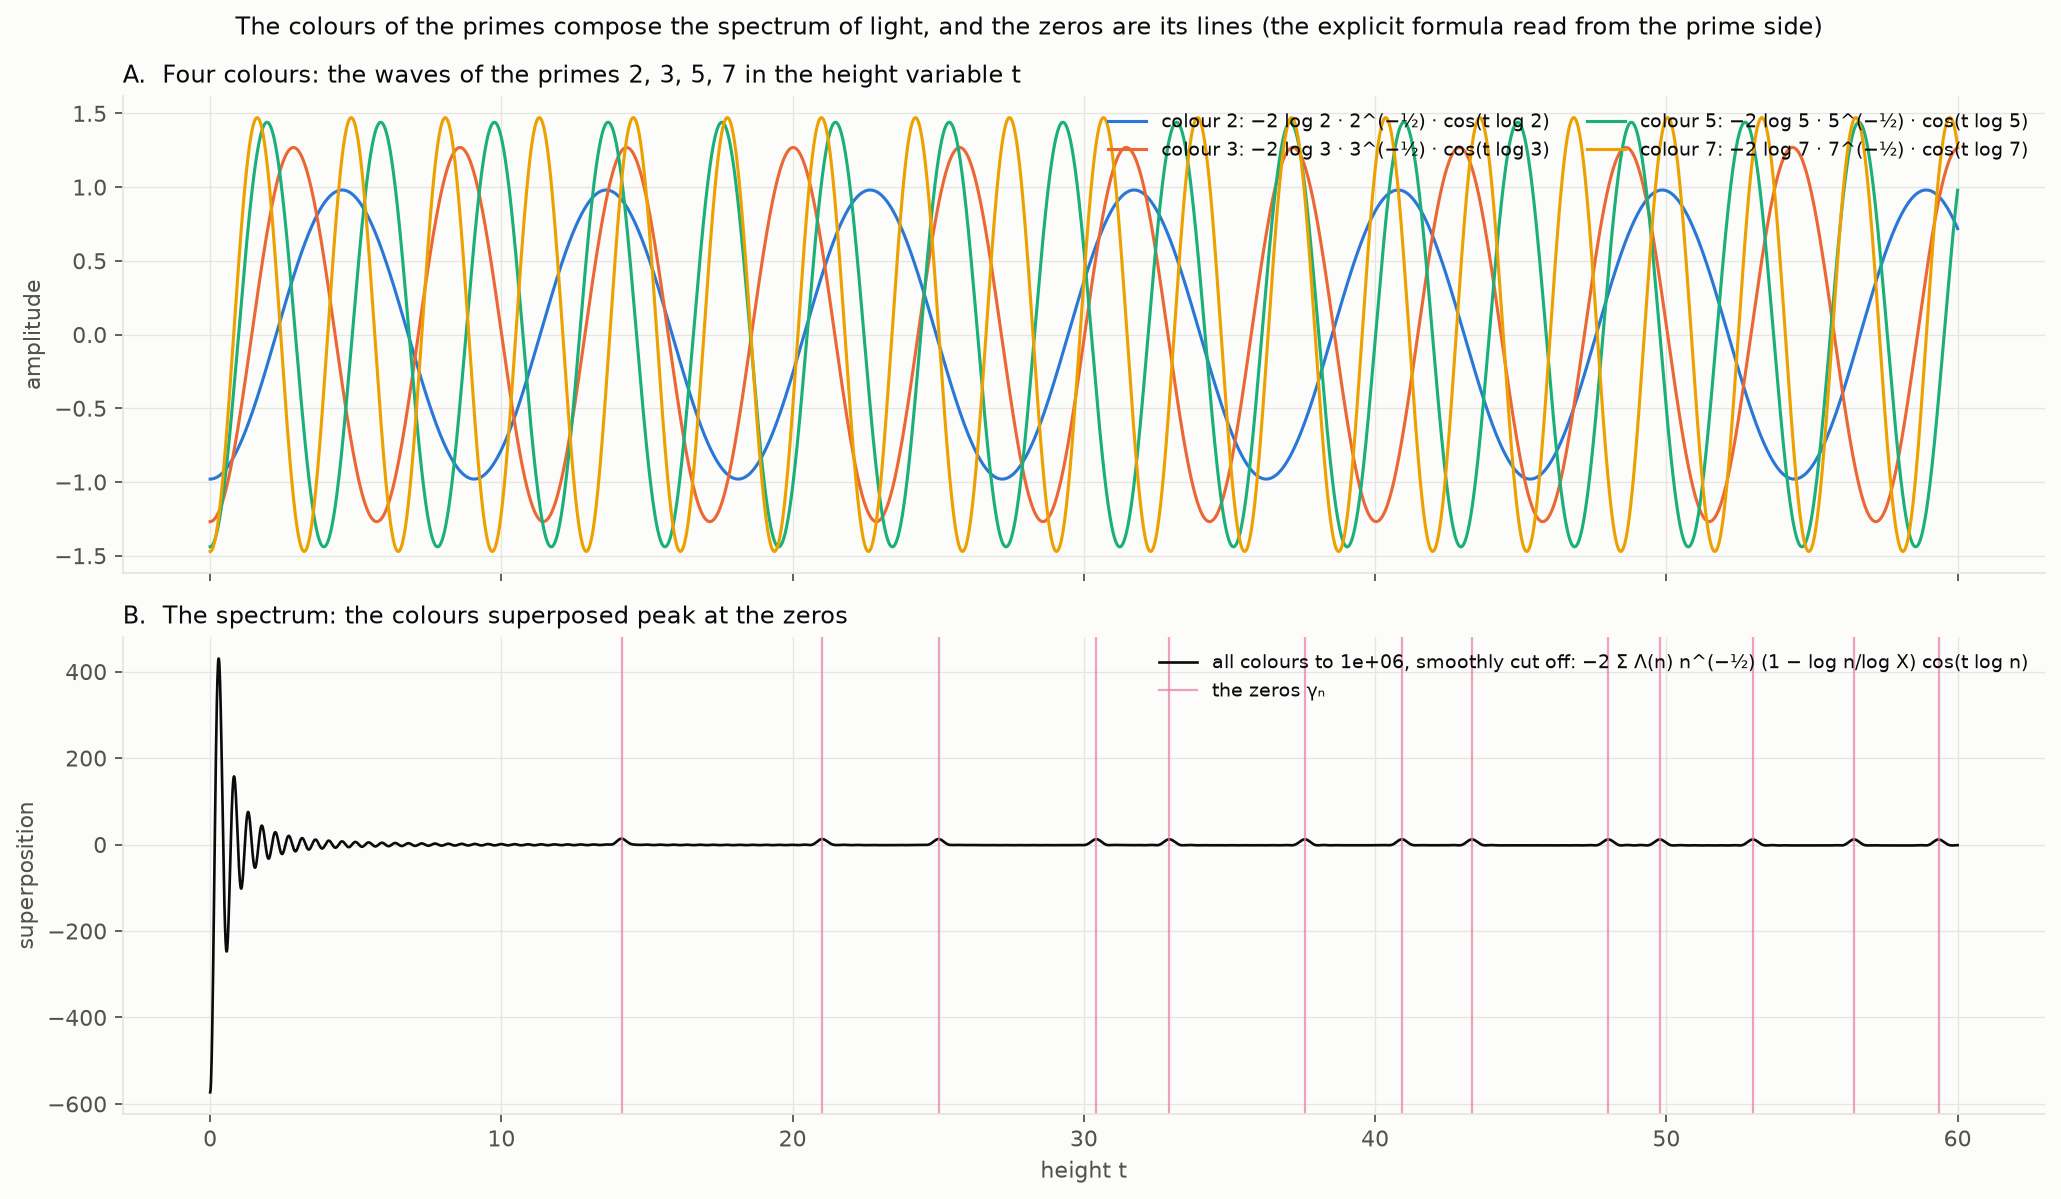
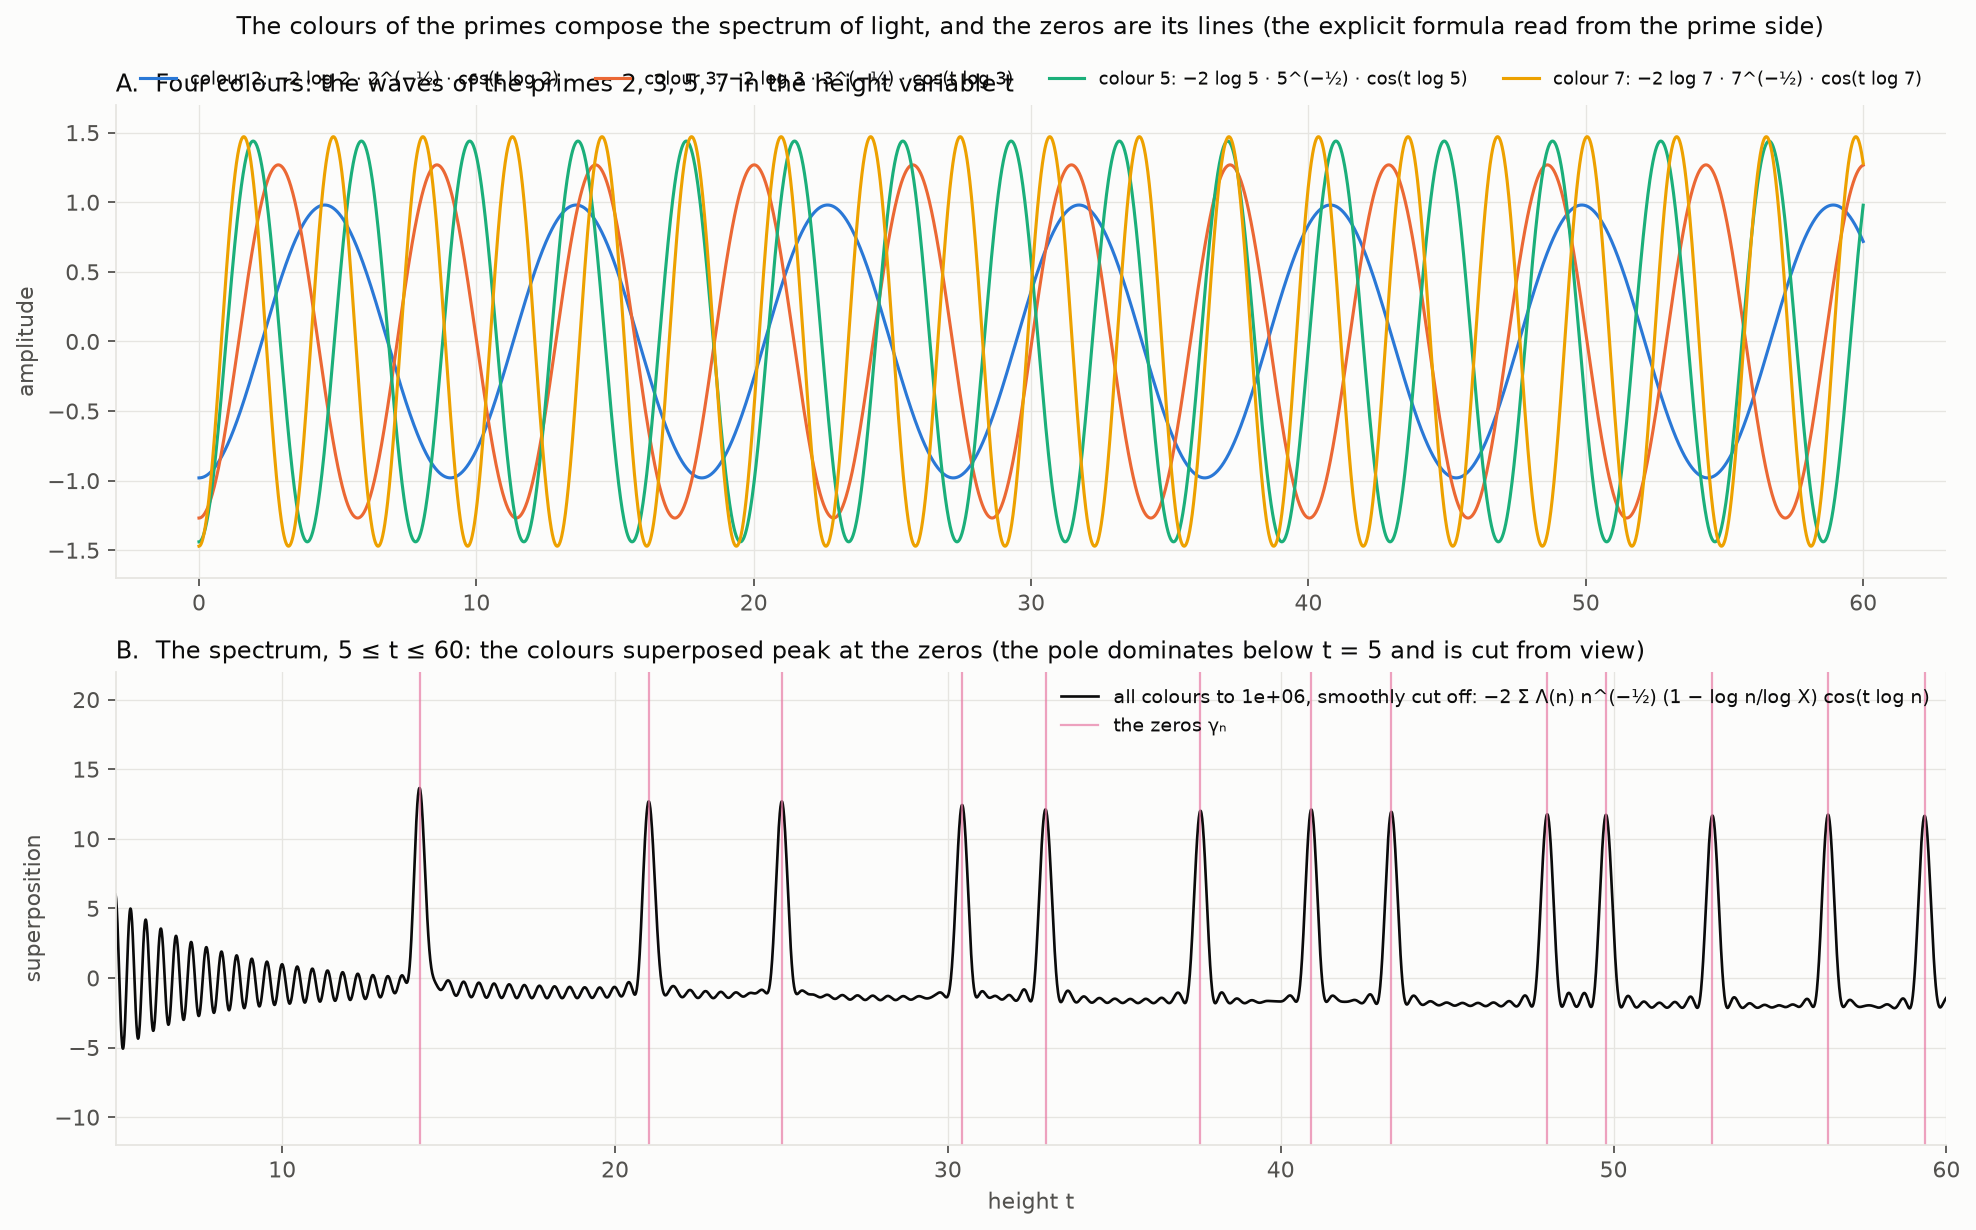
Spectrum figure: show the lines at the zeros at their own scale
Claude-Session: https://claude.ai/code/session_018bsQFtUftswt2PDPD9BMW9

diff --git a/rh_spectrum_of_light.py b/rh_spectrum_of_light.py
@@ -31,16 +31,16 @@ for i in pk:
 BLUE, ORANGE, AQUA, YELLOW, MAG, INK, INK2, SURF, GRID = "#2a78d6", "#eb6834", "#1baf7a", "#eda100", "#e87ba4", "#0b0b0b", "#52514e", "#fcfcfb", "#e6e5e1"
 plt.rcParams.update({"font.size": 10, "axes.titlesize": 11, "axes.edgecolor": GRID, "axes.labelcolor": INK2, "xtick.color": INK2, "ytick.color": INK2,
                      "axes.spines.top": False, "axes.spines.right": False, "figure.facecolor": SURF, "axes.facecolor": SURF, "text.color": INK})
-fig, ax = plt.subplots(2, 1, figsize=(13, 7.6), sharex=True)
+fig, ax = plt.subplots(2, 1, figsize=(13, 7.8))
 for a in ax: a.grid(True, color=GRID, lw=0.6); a.set_axisbelow(True)
 A = ax[0]
 for p, c in zip((2, 3, 5, 7), (BLUE, ORANGE, AQUA, YELLOW)):
     A.plot(t, -2 * math.log(p) / math.sqrt(p) * np.cos(t * math.log(p)), color=c, lw=1.4, label=f"colour {p}: −2 log {p} · {p}^(−½) · cos(t log {p})")
-A.set_ylabel("amplitude"); A.set_title("A.  Four colours: the waves of the primes 2, 3, 5, 7 in the height variable t", loc="left"); A.legend(frameon=False, fontsize=8.5, ncol=2, loc="upper right")
+A.set_ylabel("amplitude"); A.set_title("A.  Four colours: the waves of the primes 2, 3, 5, 7 in the height variable t", loc="left"); A.legend(frameon=False, fontsize=8, ncol=4, loc="lower center", bbox_to_anchor=(0.5, 1.0)); A.set_ylim(-1.7, 1.7)
 B = ax[1]
 B.plot(t, spec, color=INK, lw=1.2, label=f"all colours to {X:.0e}, smoothly cut off: −2 Σ Λ(n) n^(−½) (1 − log n/log X) cos(t log n)")
 for k, gm in enumerate(g[g < 60]):
     B.axvline(gm, color=MAG, lw=1.0, alpha=0.7, label="the zeros γₙ" if k == 0 else None)
-B.set_xlabel("height t"); B.set_ylabel("superposition"); B.set_title("B.  The spectrum: the colours superposed peak at the zeros", loc="left"); B.legend(frameon=False, fontsize=8.5, loc="upper right")
+B.set_xlim(5, 60); B.set_ylim(-12, 22); B.set_xlabel("height t"); B.set_ylabel("superposition"); B.set_title("B.  The spectrum, 5 ≤ t ≤ 60: the colours superposed peak at the zeros (the pole dominates below t = 5 and is cut from view)", loc="left"); B.legend(frameon=False, fontsize=8.5, loc="upper right")
 fig.suptitle("The colours of the primes compose the spectrum of light, and the zeros are its lines (the explicit formula read from the prime side)", fontsize=11)
 fig.tight_layout(); fig.savefig(out, dpi=160, bbox_inches="tight"); print("wrote", out)
